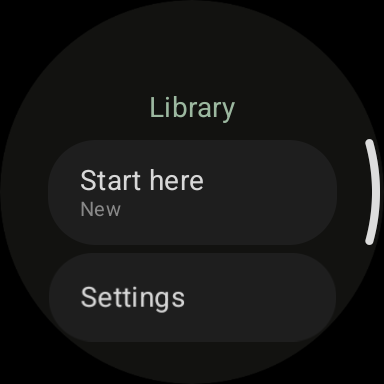
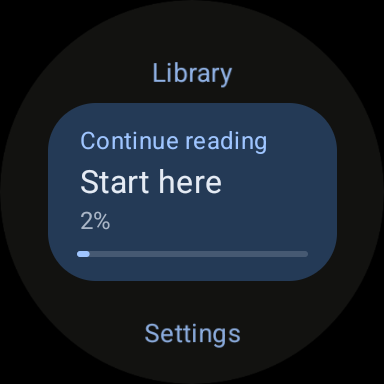
Shut the speech engine down off the main thread; bump to 1.0.6; new screenshots
The speech settings screen created a TextToSpeech to list the voices the
watch has, and its DisposableEffect called shutdown() on the main thread
when the screen was left. shutdown() takes the engine's own lock, which
the connection set-up holds on an AsyncTask while it talks to the speech
service; a cold engine start on the watch takes seconds, so leaving the
screen early stalled the main thread past the five-second limit and the
system reported the app as not responding. TtsService.onDestroy had the
same stop()+shutdown() pair on the main thread.

Both now hand the engine to a short-lived thread. Verified on the Pixel
Watch 4 by force-stopping the engine and leaving the screen within half
a second, three times: no ANR.

Phone versionCode 100061, watch 100062. Store screenshots retaken from
the emulators for the new library, reader controls and settings; README
screenshots and feature list brought up to date; changelogs written.

Claude-Session: https://claude.ai/code/session_01Q1RLruG5yjBkp6saSZZABh

diff --git a/wear/src/main/java/com/watchreader/wear/tts/TtsLanguages.kt b/wear/src/main/java/com/watchreader/wear/tts/TtsLanguages.kt
@@ -3,6 +3,7 @@ package com.watchreader.wear.tts
 import android.content.Context
 import android.speech.tts.TextToSpeech
 import java.util.Locale
+import kotlin.concurrent.thread
 
 /**
  * Which of the languages this app reads aloud the watch can actually speak.
@@ -43,6 +44,16 @@ object TtsLanguages {
             onResult(Availability(installed, missing))
         }
         return engine
+    }
+
+    /**
+     * Shuts an engine down off the main thread. shutdown() takes the engine's own lock, which the
+     * connection set-up holds while it talks to the speech service; on a watch that can take
+     * seconds, and waiting for it on the main thread is an ANR.
+     */
+    fun release(engine: TextToSpeech?) {
+        if (engine == null) return
+        thread(name = "tts-release") { runCatching { engine.shutdown() } }
     }
 
     fun label(locale: Locale): String = if (locale.language == "zh") "Chinese" else "English"

diff --git a/wear/src/main/java/com/watchreader/wear/service/TtsService.kt b/wear/src/main/java/com/watchreader/wear/service/TtsService.kt
@@ -13,6 +13,7 @@ import android.os.IBinder
 import android.speech.tts.TextToSpeech
 import android.speech.tts.UtteranceProgressListener
 import android.util.Log
+import kotlin.concurrent.thread
 import androidx.core.app.NotificationCompat
 import com.watchreader.wear.R
 import com.watchreader.wear.data.model.WearBook
@@ -261,9 +262,11 @@ class TtsService : Service() {
                 WearBookRepository.sendProgressToPhone(b, offset)
             }
         }
-        tts?.stop()
-        tts?.shutdown()
+        // stop() and shutdown() both take the engine's lock, which its connection set-up holds
+        // while it talks to the speech service; waiting for that here would stall the main thread.
+        val engine = tts
         tts = null
+        thread(name = "tts-release") { runCatching { engine?.stop(); engine?.shutdown() } }
         TtsPlayback.set(TtsState.IDLE, null, null)
         super.onDestroy()
     }

diff --git a/wear/src/main/java/com/watchreader/wear/ui/screen/SettingsScreen.kt b/wear/src/main/java/com/watchreader/wear/ui/screen/SettingsScreen.kt
@@ -175,7 +175,7 @@ fun SpeechSettingsScreen() {
     var voices by remember { mutableStateOf<TtsLanguages.Availability?>(null) }
     DisposableEffect(Unit) {
         val engine = TtsLanguages.probe(context) { voices = it }
-        onDispose { engine.shutdown() }
+        onDispose { TtsLanguages.release(engine) }
     }
     SettingsList {
         item { SectionTitle(stringResource(R.string.settings_section_speech)) }

diff --git a/README.md b/README.md
@@ -22,11 +22,13 @@ A minimalist e-book reader for Wear OS. Add a book on your phone, read it on you
 - **Phone-to-watch transfer** — one channel per book with the metadata in the stream; the watch confirms with a receipt, and the phone only talks to a watch that actually runs the app
 - **Measured pagination** — each page is laid out against the real page box with a `TextMeasurer`, found by binary search and snapped to a paragraph, sentence or phrase; only the pages you look at are ever measured, so a long novel opens at 90% instantly. On the round screen the page is a left-aligned block inscribed in the circle, so no line is clipped and no line is centred against the one above it
 - **Read on the phone as well** — the same paginator drives a phone reader: tap the halves to turn pages, jump by chapter from the contents sheet, and send the book on from the button in the top right
-- **Read aloud** — a foreground media service reads the book with the watch's TTS engine, sentence by sentence with Chinese/English detection, and keeps going with the screen off or after you leave the reader; the reader follows along and highlights the sentence
+- **Read aloud** — a foreground media service reads the book with the watch's TTS engine, sentence by sentence with Chinese/English detection, and keeps going with the screen off or after you leave the reader; the reader follows along and highlights the sentence. Nothing that talks to the engine runs on the main thread: it is created, queried and shut down off it, because a cold engine start on a watch takes seconds
 - **Rotary crown** — one page per detent in the reader, scrolling in lists
 - **Progress both ways** — whichever device you read on keeps the place, and the other one is told; the later timestamp wins
 - **Share to WatchReader** — from a file manager, browser or mail client, or paste a link
-- **Settings** — font size, three typefaces (sans, serif, bundled 楷体 LXGW WenKai), dark or sepia page, keep-screen-on, speech rate and voice
+- **Library** — a Continue reading card for the book you last opened and progress under every title, on both devices; the phone shows covers, whether each book is on the watch, and why a send failed
+- **Reader controls** — long-press on the watch for read-aloud, the contents list and a go-to slider; on the phone the contents sheet and the send button sit in the top bar; a one-time hint explains the taps
+- **Settings** — Appearance: text size, three fonts shown in themselves (sans, serif, the bundled 楷体 LXGW WenKai) and a dark or sepia page, each editor with a preview of the reading page; Read aloud: speed, and which of the English and Chinese voices this watch actually has; keep the screen on while reading
 
 ## Architecture
 
